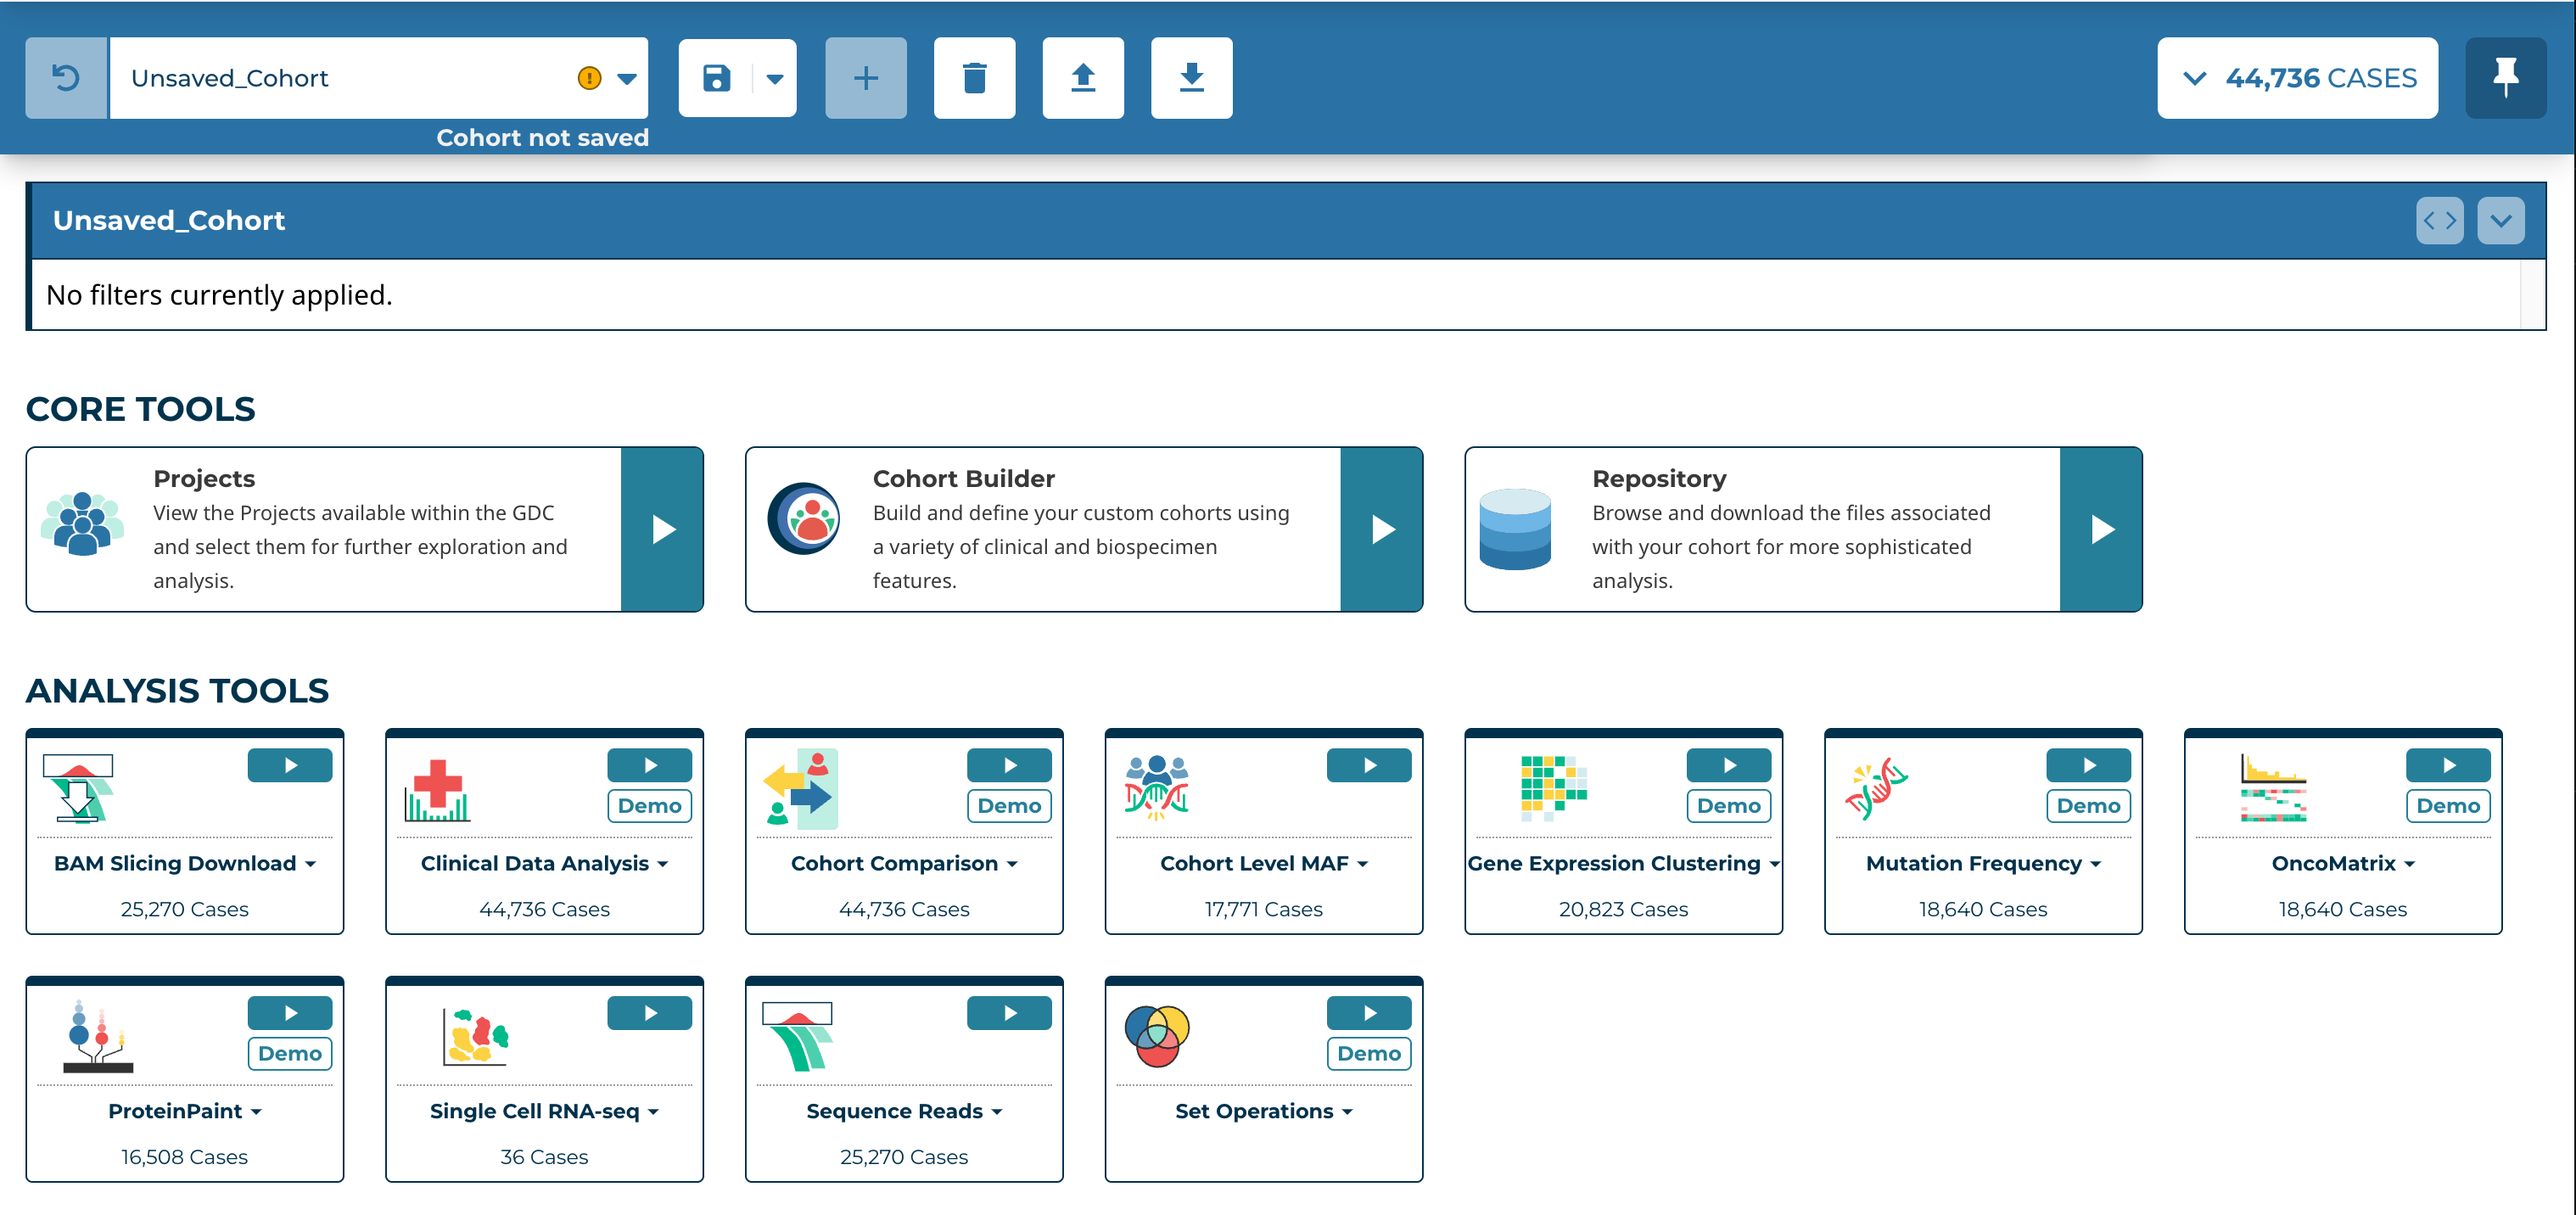
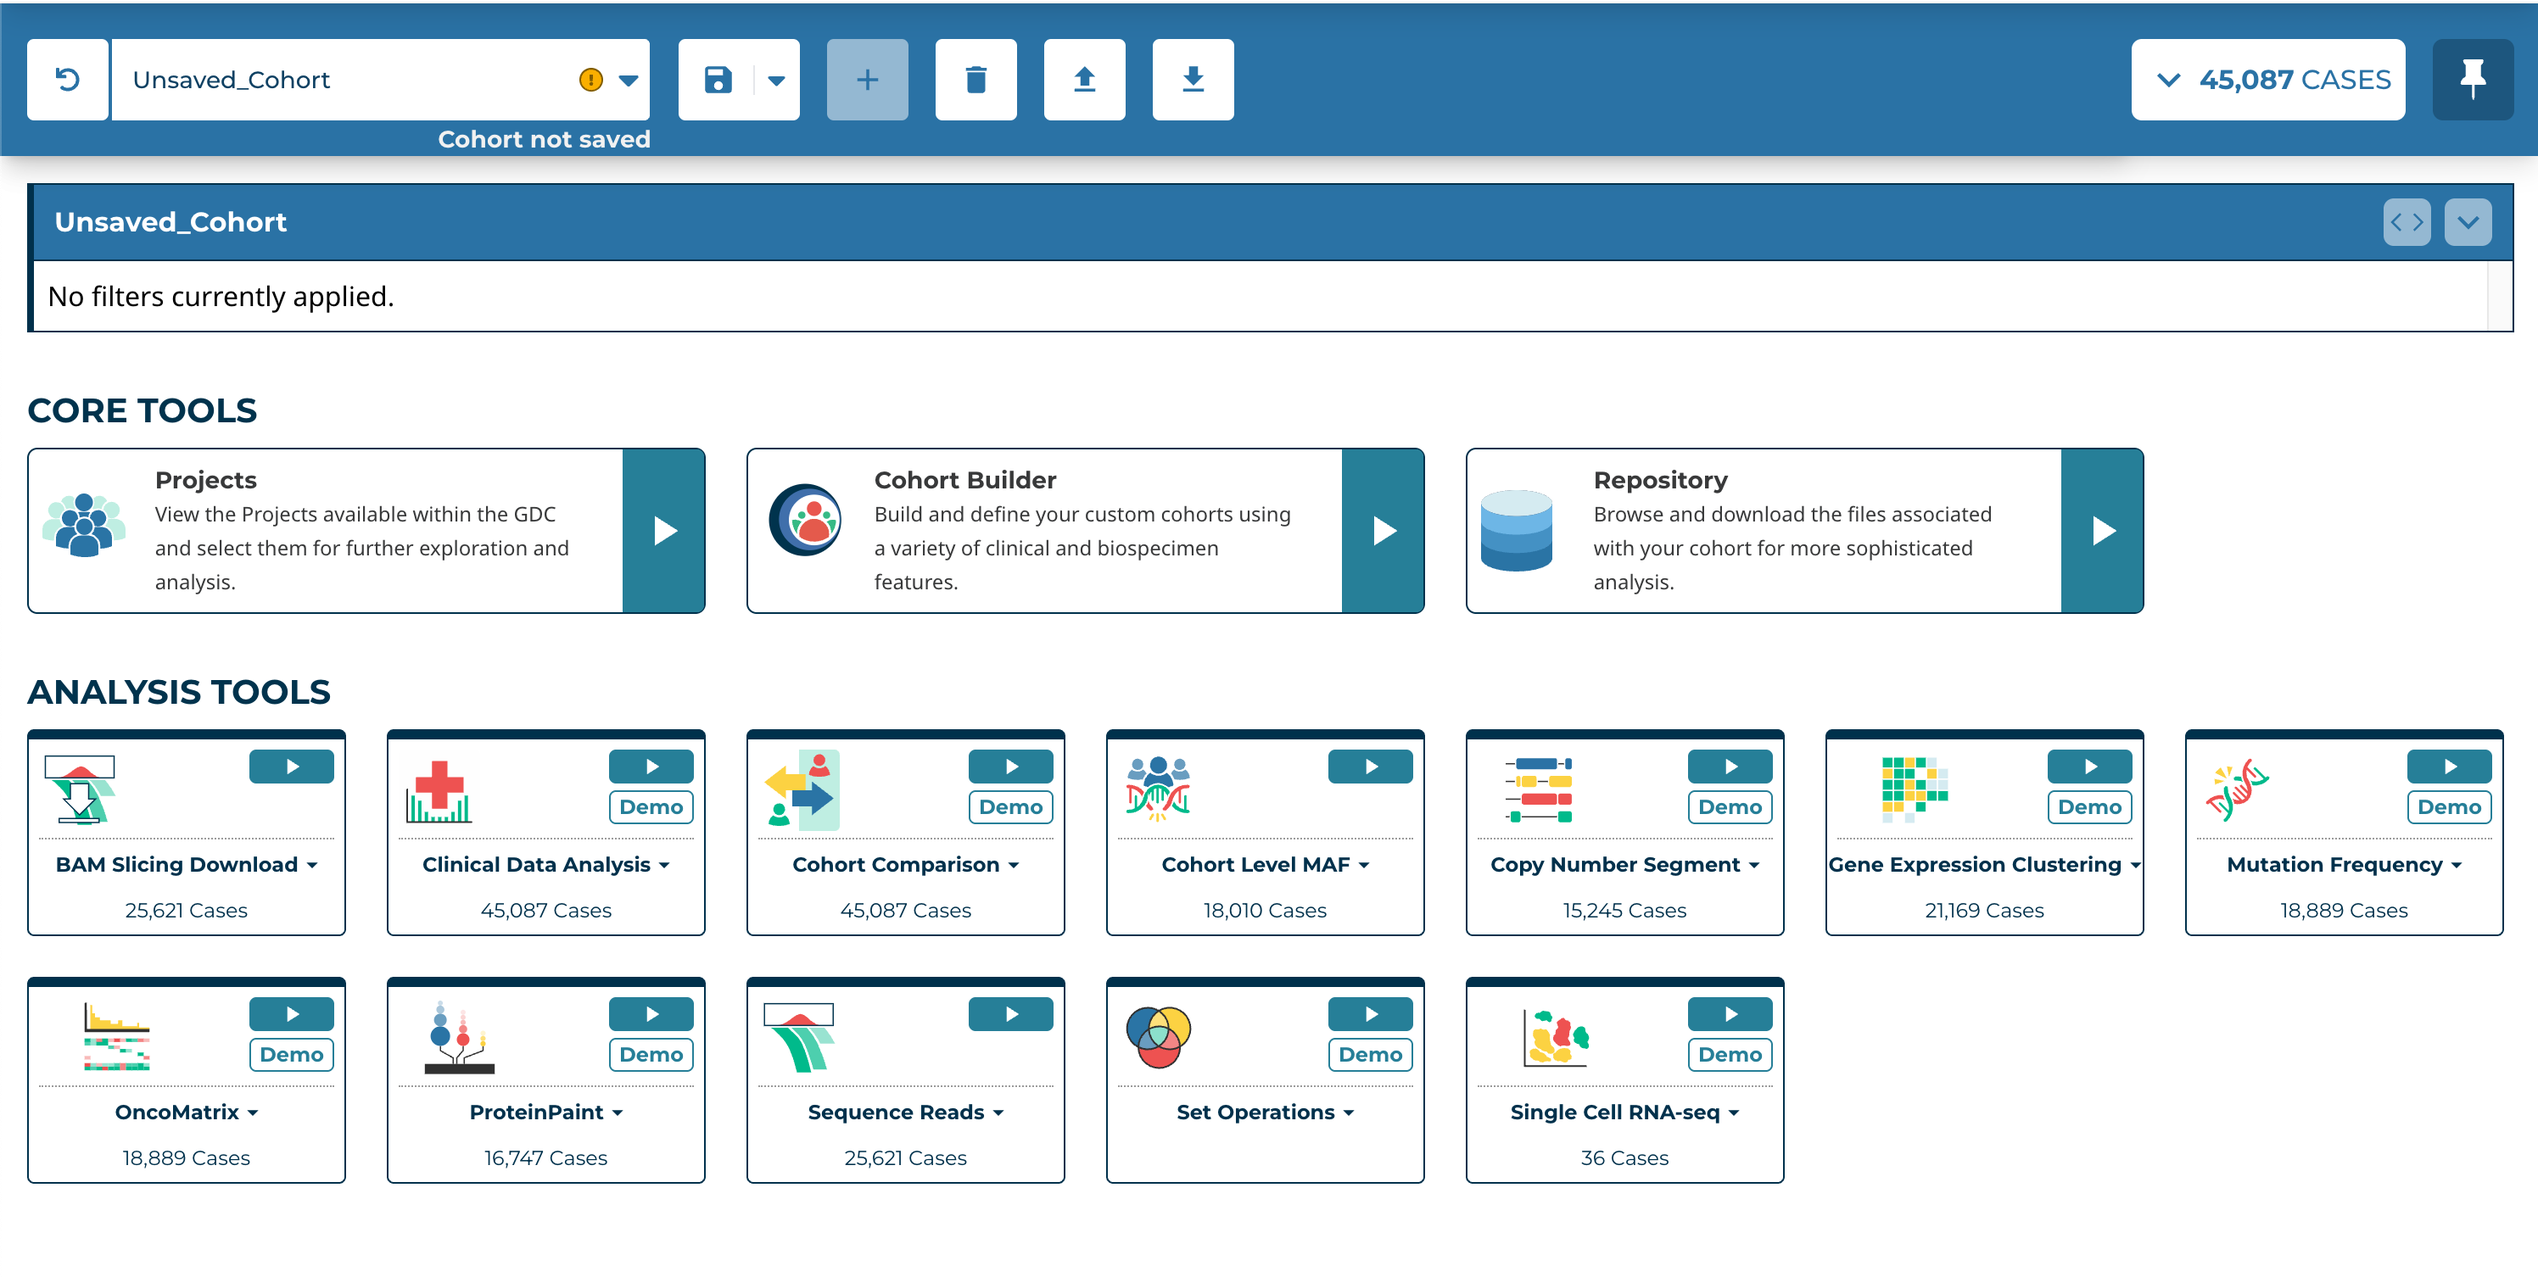
user guide updates for sanger

Changed region(s): [[0.0, 0.0, 1.0, 1.0], [0.0, 0.3073, 0.8703, 0.5223]]

diff --git a/docs/Data_Portal/Users_Guide/cohort_comparison.md b/docs/Data_Portal/Users_Guide/cohort_comparison.md
@@ -14,4 +14,4 @@ The Cohort Comparison tool displays graphs and tables that demonstrate the simil
 
 [![Cohort Comparison](images/cohort_comparison_page.png)](images/cohort_comparison_page.png "Click to see the full image.")
 
-Note that clicking the "Open Venn diagram" link will launch the [Set Operations](set_operations.md) tool with the same cohorts used in the Cohort Comparison tool.
+Note that clicking the "Open Venn diagram in Set Operations" link will launch the [Set Operations](set_operations.md) tool with the same cohorts used in the Cohort Comparison tool.

diff --git a/docs/Data_Portal/Users_Guide/mutation_frequency.md b/docs/Data_Portal/Users_Guide/mutation_frequency.md
@@ -168,6 +168,6 @@ A set of frequently-used properties are available to filter genes and mutations 
 * __Consequence Type:__  Consequence type of this variation; [sequence ontology](http://www.sequenceontology.org/) terms
 * __Type:__ A general classification of the mutation
 
-### Saving a Gene or Mutation Set
+## Saving a Gene or Mutation Set
 
 After filtration, a set of genes or mutations can be saved by choosing the "Save/Edit Gene Set" or "Save/Edit Mutation Set" button at the top left of the table.  

diff --git a/docs/Data_Portal/Users_Guide/cohort_builder.md b/docs/Data_Portal/Users_Guide/cohort_builder.md
@@ -14,7 +14,7 @@ The Cohort Builder can be accessed in one of the following ways:
 
 [![Cohort Builder Play Buttons](images/CohortBuilderInAnalysisCenter.png)](images/CohortBuilderInAnalysisCenter.png "Click to see the full image.")
 
-## Cohort Builder Panel ##
+## Cohort Builder Panel
 
 [![Cohort Builder Panel](images/CohortBuilderPanel.png)](images/CohortBuilderPanel.png "Image of Cohort Builder Panel. Click to see the full image.")
 

diff --git a/docs/Data_Portal/Users_Guide/analysis_center.md b/docs/Data_Portal/Users_Guide/analysis_center.md
@@ -30,6 +30,7 @@ The 'Analysis Tools' section contains the tools available for specific analyses 
 * [Clinical Data Analysis](clinical_data_analysis.md)
 * [Cohort Comparison](cohort_comparison.md)
 * [Cohort Level MAF](cohortMAF.md)
+* [Copy Number Segment](copy_number_segment.md)
 * [Gene Expression Clustering](gene_expression_clustering.md)
 * [Mutation Frequency](mutation_frequency.md)
 * [OncoMatrix](oncomatrix.md)
